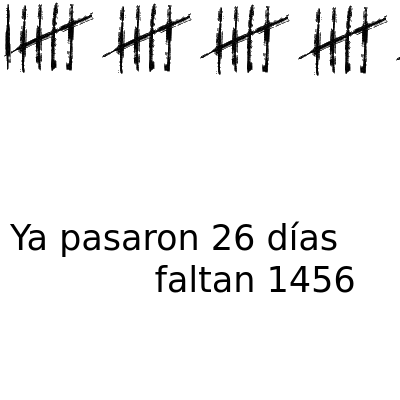
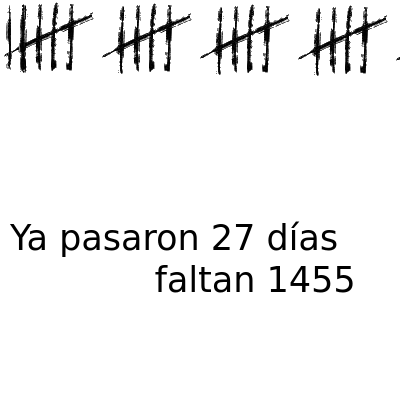
deploy: 28882f26f23b9f53dac6c4991168e610486d0e44

Changed region(s): [[0.0, 0.0, 0.09, 0.18], [0.57, 0.54, 0.63, 0.63], [0.84, 0.66, 0.9, 0.75]]

diff --git a/index.html b/index.html
@@ -3,19 +3,19 @@
   <head>
     <meta charset='utf-8'>
     <meta http-equiv='X-UA-Compatible' content='IE=edge'>
-    <title>Ya pasaron 26 días y faltan 1456</title>
-    <meta name="description" content="Ya pasaron 26 días y faltan 1456">
-    <meta itemprop="name" content="Ya pasaron 26 días y faltan 1456">
-    <meta itemprop="description" content="Ya pasaron 26 días y faltan 1456">
+    <title>Ya pasaron 27 días y faltan 1455</title>
+    <meta name="description" content="Ya pasaron 27 días y faltan 1455">
+    <meta itemprop="name" content="Ya pasaron 27 días y faltan 1455">
+    <meta itemprop="description" content="Ya pasaron 27 días y faltan 1455">
     <meta name="twitter:card" content="summary">
-    <meta name="twitter:title" content="Ya pasaron 26 días y faltan 1456">
-    <meta name="twitter:description" content="Ya pasaron 26 días y faltan 1456">
+    <meta name="twitter:title" content="Ya pasaron 27 días y faltan 1455">
+    <meta name="twitter:description" content="Ya pasaron 27 días y faltan 1455">
     <meta name="twitter:creator" content="@FloriusWasTaken">
     <meta name="twitter:image" content="https://pasaron.meme.ar/capture.png">
-    <meta property="og:title" content="Ya pasaron 26 días y faltan 1456">
-    <meta property="og:description" content="Ya pasaron 26 días y faltan 1456">
+    <meta property="og:title" content="Ya pasaron 27 días y faltan 1455">
+    <meta property="og:description" content="Ya pasaron 27 días y faltan 1455">
     <meta property="og:url" content="https://pasaron.meme.ar">
-    <meta property="og:site_name" content="Ya pasaron 26 días y faltan 1456">
+    <meta property="og:site_name" content="Ya pasaron 27 días y faltan 1455">
     <meta property="og:type" content="website">
     <meta property="og:image" content="https://pasaron.meme.ar/capture.png">
     <meta name="theme-color" content="#dc143c">
@@ -69,18 +69,18 @@
         padding: 0;
       }
     </style>
-    <title>Ya pasaron 26 días y faltan 1456</title>
+    <title>Ya pasaron 27 días y faltan 1455</title>
   </head>
   <body>
     <div id="main">
       <img src="img/5.png"/><img src="img/5.png"/><img src="img/5.png"/><img src="img/5.png"/><img src="img/5.png"/>
       
-        <img src="img/1.png"/>
+        <img src="img/2.png"/>
       
     </div>
     <footer id="footer">
       <marquee id="marquee" class="is-vertical-align">
-        Ya pasaron 26 días y faltan 1456
+        Ya pasaron 27 días y faltan 1455
       </marquee>
       <ul>
         <li>
